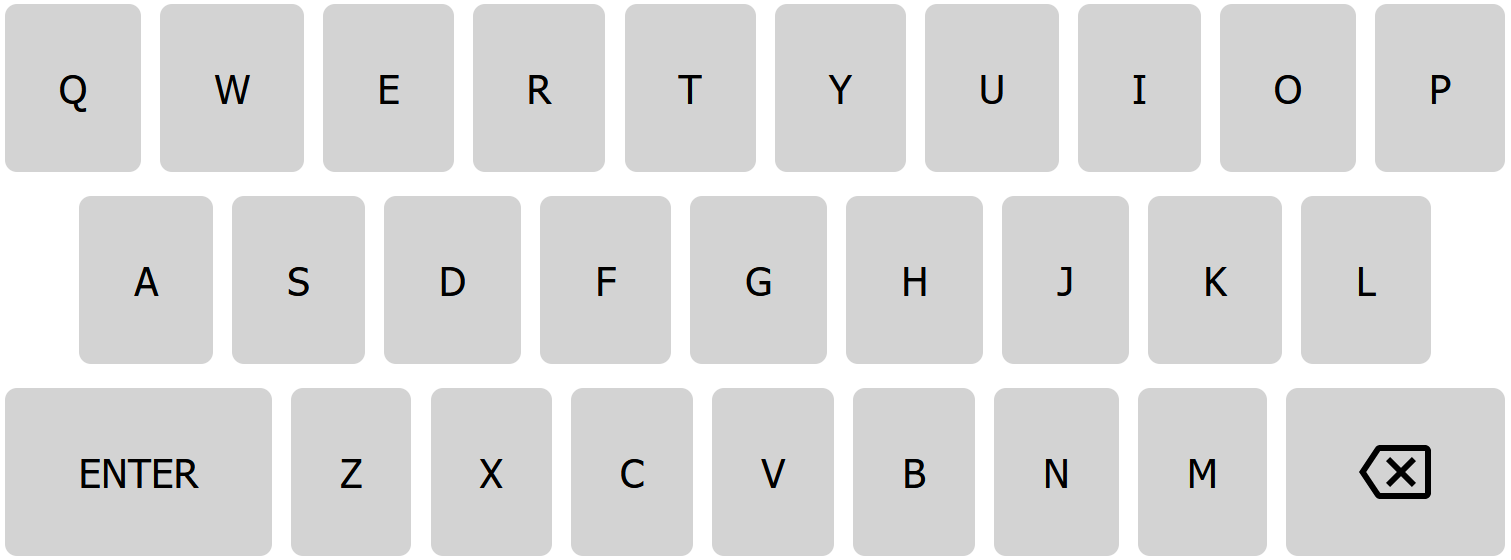
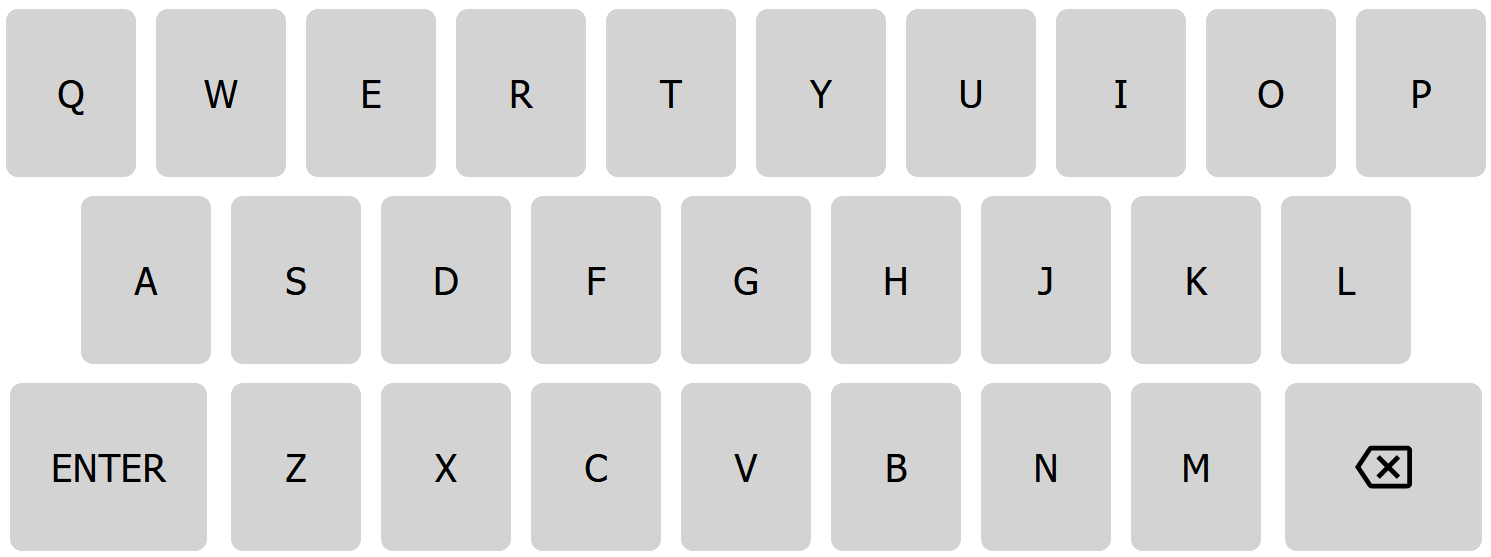
Finish keyboard article

diff --git a/src/lib/Keyboard.svelte b/src/lib/Keyboard.svelte
@@ -32,7 +32,8 @@
 
 <style>
     * {
-        --text-size: 1rem;
+        --text-size: .8rem;
+        --key-margin: .2rem;
     }
     #keyboard { /* The whole keyboard */
         display: flex;
@@ -50,11 +51,12 @@
         border-radius: 4px;
         font-size: var(--text-size);
         padding: 0;
+        cursor: pointer;
         
         height: 3.5rem;
         text-transform: uppercase;
         text-align: center;
-        margin: .2rem;
+        margin: var(--key-margin);
 
         flex: 1 1 0;
         
@@ -62,13 +64,18 @@
         touch-action: manipulation; 
     }
     .half {
-        flex-grow: .5;
+        --grow-value: .5;
+        flex-grow: var(--grow-value);
+        margin: calc(var(--key-margin) * var(--grow-value));
     }
     .one-and-a-half {
-        flex-grow: 1.5;
+        --grow-value: 1.5;
+        flex-grow: var(--grow-value);
+        margin-left: calc(var(--key-margin) * var(--grow-value));
+        margin-right: calc(var(--key-margin) * var(--grow-value));
     }
     button > img { /* The backspace icon */
-        height: var(--text-size);
+        height: calc(var(--text-size) * 1.5);
         vertical-align: text-bottom;
     }
 </style>

diff --git a/src/App.svelte b/src/App.svelte
@@ -8,7 +8,7 @@
 
 <style>
     :root {
-        font-family: -apple-system, BlinkMacSystemFont, 'Segoe UI', Roboto, Oxygen, Ubuntu, Cantarell, 'Open Sans', 'Helvetica Neue', sans-serif;
+        font-family: -apple-system, BlinkMacSystemFont, "Segoe UI", Roboto, Oxygen-Sans, Ubuntu, Cantarell, "Helvetica Neue", sans-serif;
     }
     
     main {

diff --git a/README.md b/README.md
@@ -64,8 +64,8 @@ button {
     font-size: var(--text-size);
 }
 button > img {
-    height: var(--text-size);
     vertical-align: text-bottom;
+    height: var(--text-size);
 }
 ```
 Now the backspace key is in place, we can style the buttons to make them look like Wordle's. Here we are going to use flexbox, as it's very powerful and enables us to get the results we want easily.
@@ -96,6 +96,7 @@ Let's make those buttons look better!
 Different operating systems and browsers choose to render default HTML elements - like buttons - differently. Let's remove the default styling on them and make the buttons look the way we want.
 ```css
 button {
+    cursor: pointer;
     text-transform: uppercase;
     color: black;
     background-color: lightgrey;
@@ -176,10 +177,31 @@ Now we can change the width of our special keys. Let's make them grow by 1.5x th
     flex-grow: 1.5;
 }
 ```
+<blockquote>
+<details>
+<summary><b>Why are some keys bigger than others?</b></summary>
+You have a keen eye! Since we have inserted two divs at either end of the row, but we are still applying the same margin as the normal keys, there is an extra keys worth of margin in that row. Luckily, this is a simple fix; just half the margin on these keys.
+    
+<pre><code>.half {
+    flex-grow: .5;
+    margin: .1rem;
+}
+</code></pre>
+The same thing is happening with our keys on the bottom row, but in reverse! Instead of halving the margin on our enter and backspace keys, let's increase it by a half.   
+<pre><code>.one-and-a-half {
+    flex-grow: 1.5;
+    margin: .3rem
+}
+</code></pre>
+</details>
+</blockquote>
+<br>
 
-A final note!
+### A note on touch devices
 
-Navigate to the page on a mobile device. Say you wanted to type a letter twice, so you double tap on the corresponding button. Although you are wanting this to mean 2 separate taps in quick succession, most mobile browsers will interpret this as a *zoom in* gesture. Because it is very unlikely that a user who double taps a key is wanting to zoom in, let's disable this feature.
+Navigate to the page on a mobile device. Say you wanted to type a letter twice; the natural thing to do would be to double tap on the corresponding button, right? Although you are wanting this to mean 2 separate taps in quick succession, most mobile browsers will interpret this as a *zoom in* gesture.
+
+Because it is very unlikely that a user who double taps a key is wanting to zoom in, let's disable this feature.
 
 On our main keyboard CSS rule, let's add the following line;
 ```css
@@ -189,10 +211,75 @@ On our main keyboard CSS rule, let's add the following line;
 }
 ```
 
-**Awesome! Our keyboard is finished!**
+### Closing thoughts - dynamic measurements
+Alright. Our keyboard is looking awesome! But - hang on. I have decided that I don't like the size of the text inside the buttons. Seems like a simple fix to change it, right? One would think it would be as simple as changing the `font-size` property on our `button` rule.
+
+However, now that we have made that change, other values that we have decided on based on that font size now look disproportionate. The two that stick out to me the most are the filler divs' margins, and the backspace icon's height. Let's change that.
+
+First, let's define a variable so we can use it in any rule in our component.
+```css
+* {
+    --text-size: .8rem;
+    --key-margin: .2rem;
+}
+```
+Next, let's replace our `button`'s margin with this variable.
+```css
+button {
+    /* ... */
+    margin: var(--key-margin);
+}
+```
+Finally, we can introduce our dynamic values. We're going to use CSS' powerful `calc` method.
+```css
+.half {
+    /* ... */
+    margin: calc(var(--key-margin) * 0.5);
+}
+.one-and-a-half {
+    /* ... */
+    margin: calc(var(--key-margin) * 1.5);
+}
+button > img {
+    /* ... */
+    height: calc(var(--text-size) * 1.5);
+}
+```
+
+We don't want to push down our larger buttons though. Not only are we increasing their horizontal margin, we're increasing their vertical one too. We want the vertical margin to stay the same.
+![Screenshot of Firefox devtools showing the enter and backspace keys pushed below the other keys on the bottom row](./guide/assets/keyboard/margin-bad-devtools.png)
+To do this, we can simply set the left and right margins to our calculated value. The top and bottom margins will cascade down from our button rule, and stay as the value of `--key-margin`.
+```css
+.one-and-a-half {
+    margin-left: calc(var(--key-margin) * 1.5);
+    margin-right: calc(var(--key-margin) * 1.5);
+}
+```
+One more thing. Too avoid repeating ourselves and to make it more obious which valuemeans what, we can extract our multiplicand values to a local variable. Our full rules for `.half` and `.one-and-a-half` will now look like this:
+```css
+.half {
+    --grow-value: .5;
+    flex-grow: var(--grow-value);
+    margin: calc(var(--key-margin) * var(--grow-value));
+}
+.one-and-a-half {
+    --grow-value: 1.5;
+    flex-grow: var(--grow-value);;
+    margin-left: calc(var(--key-margin) * var(--grow-value));
+    margin-right: calc(var(--key-margin) * var(--grow-value));
+}
+```
+![Screenshot of Firefox devtools showing the enter and backspace keys at the same vertical level as the other keys on the bottom row](./guide/assets/keyboard/margin-good-devtools.png)
+Perfect!
 
 
 ### Final result
+Our keyboard:
 ![A screenshot of the final styled keyboard](./guide/assets/keyboard/keyboard-final.png)
-<br>
+
+Wordle keyboard:
 ![A screenshot of the official Wordle keyboard](./guide/assets/keyboard/keyboard-wordle.png)
+
+I would say that's looking pretty spot on!
+
+Later on, we will be expanding on this keyboard, and making it better than the one in the original game, using features like CSS *pseudo-classes*, and Svelte's `motion` library.
